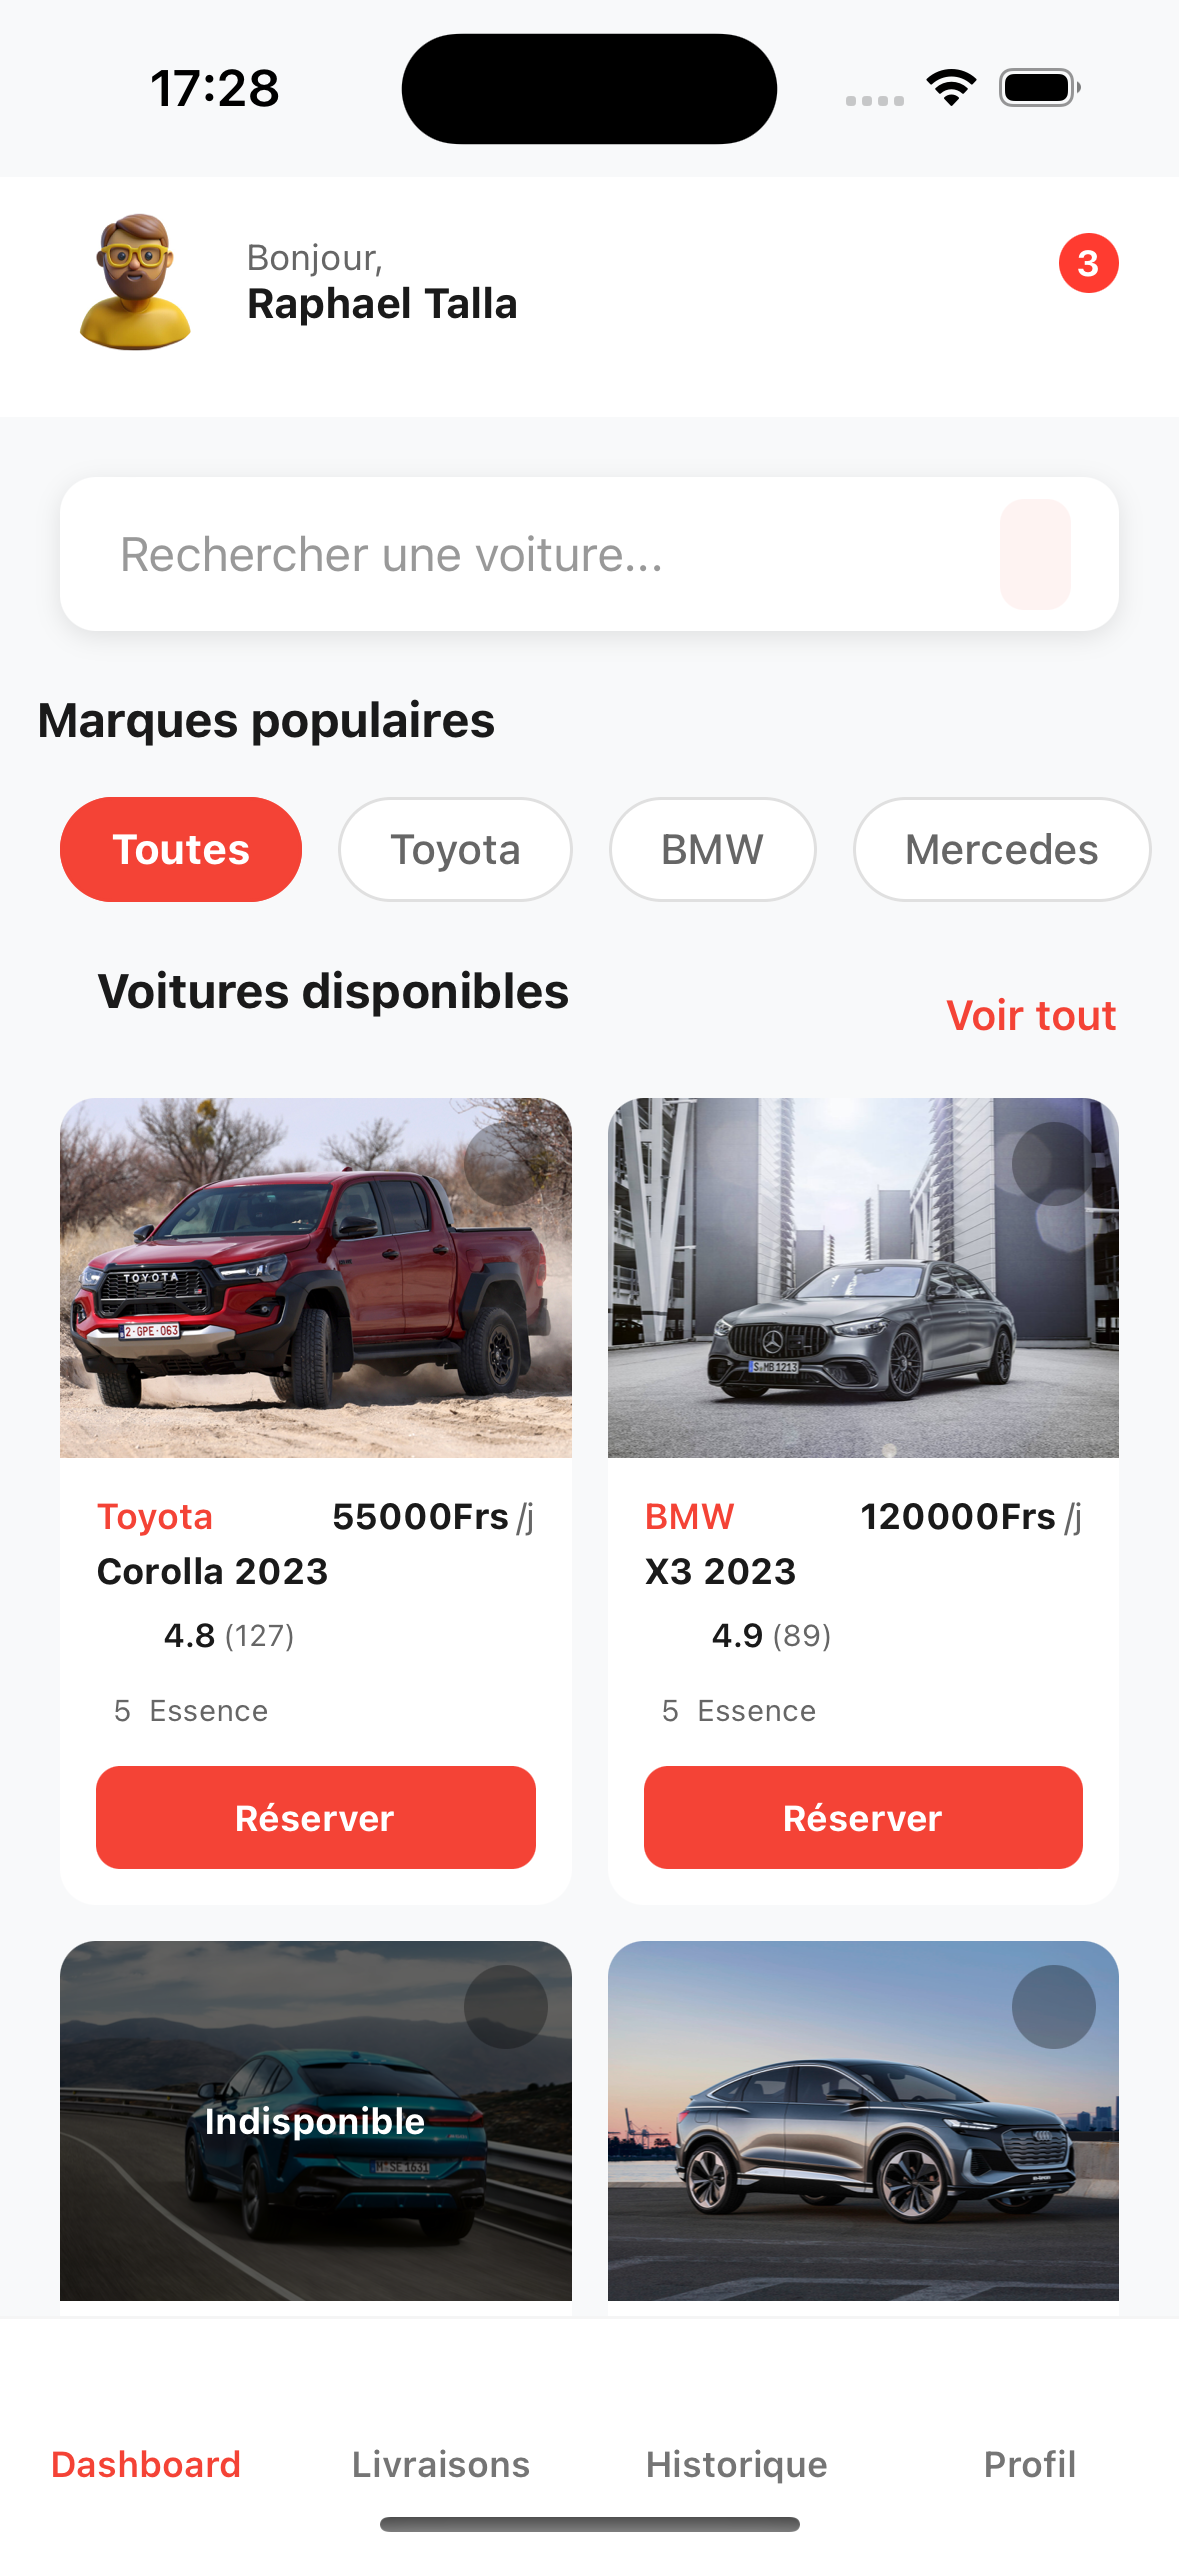
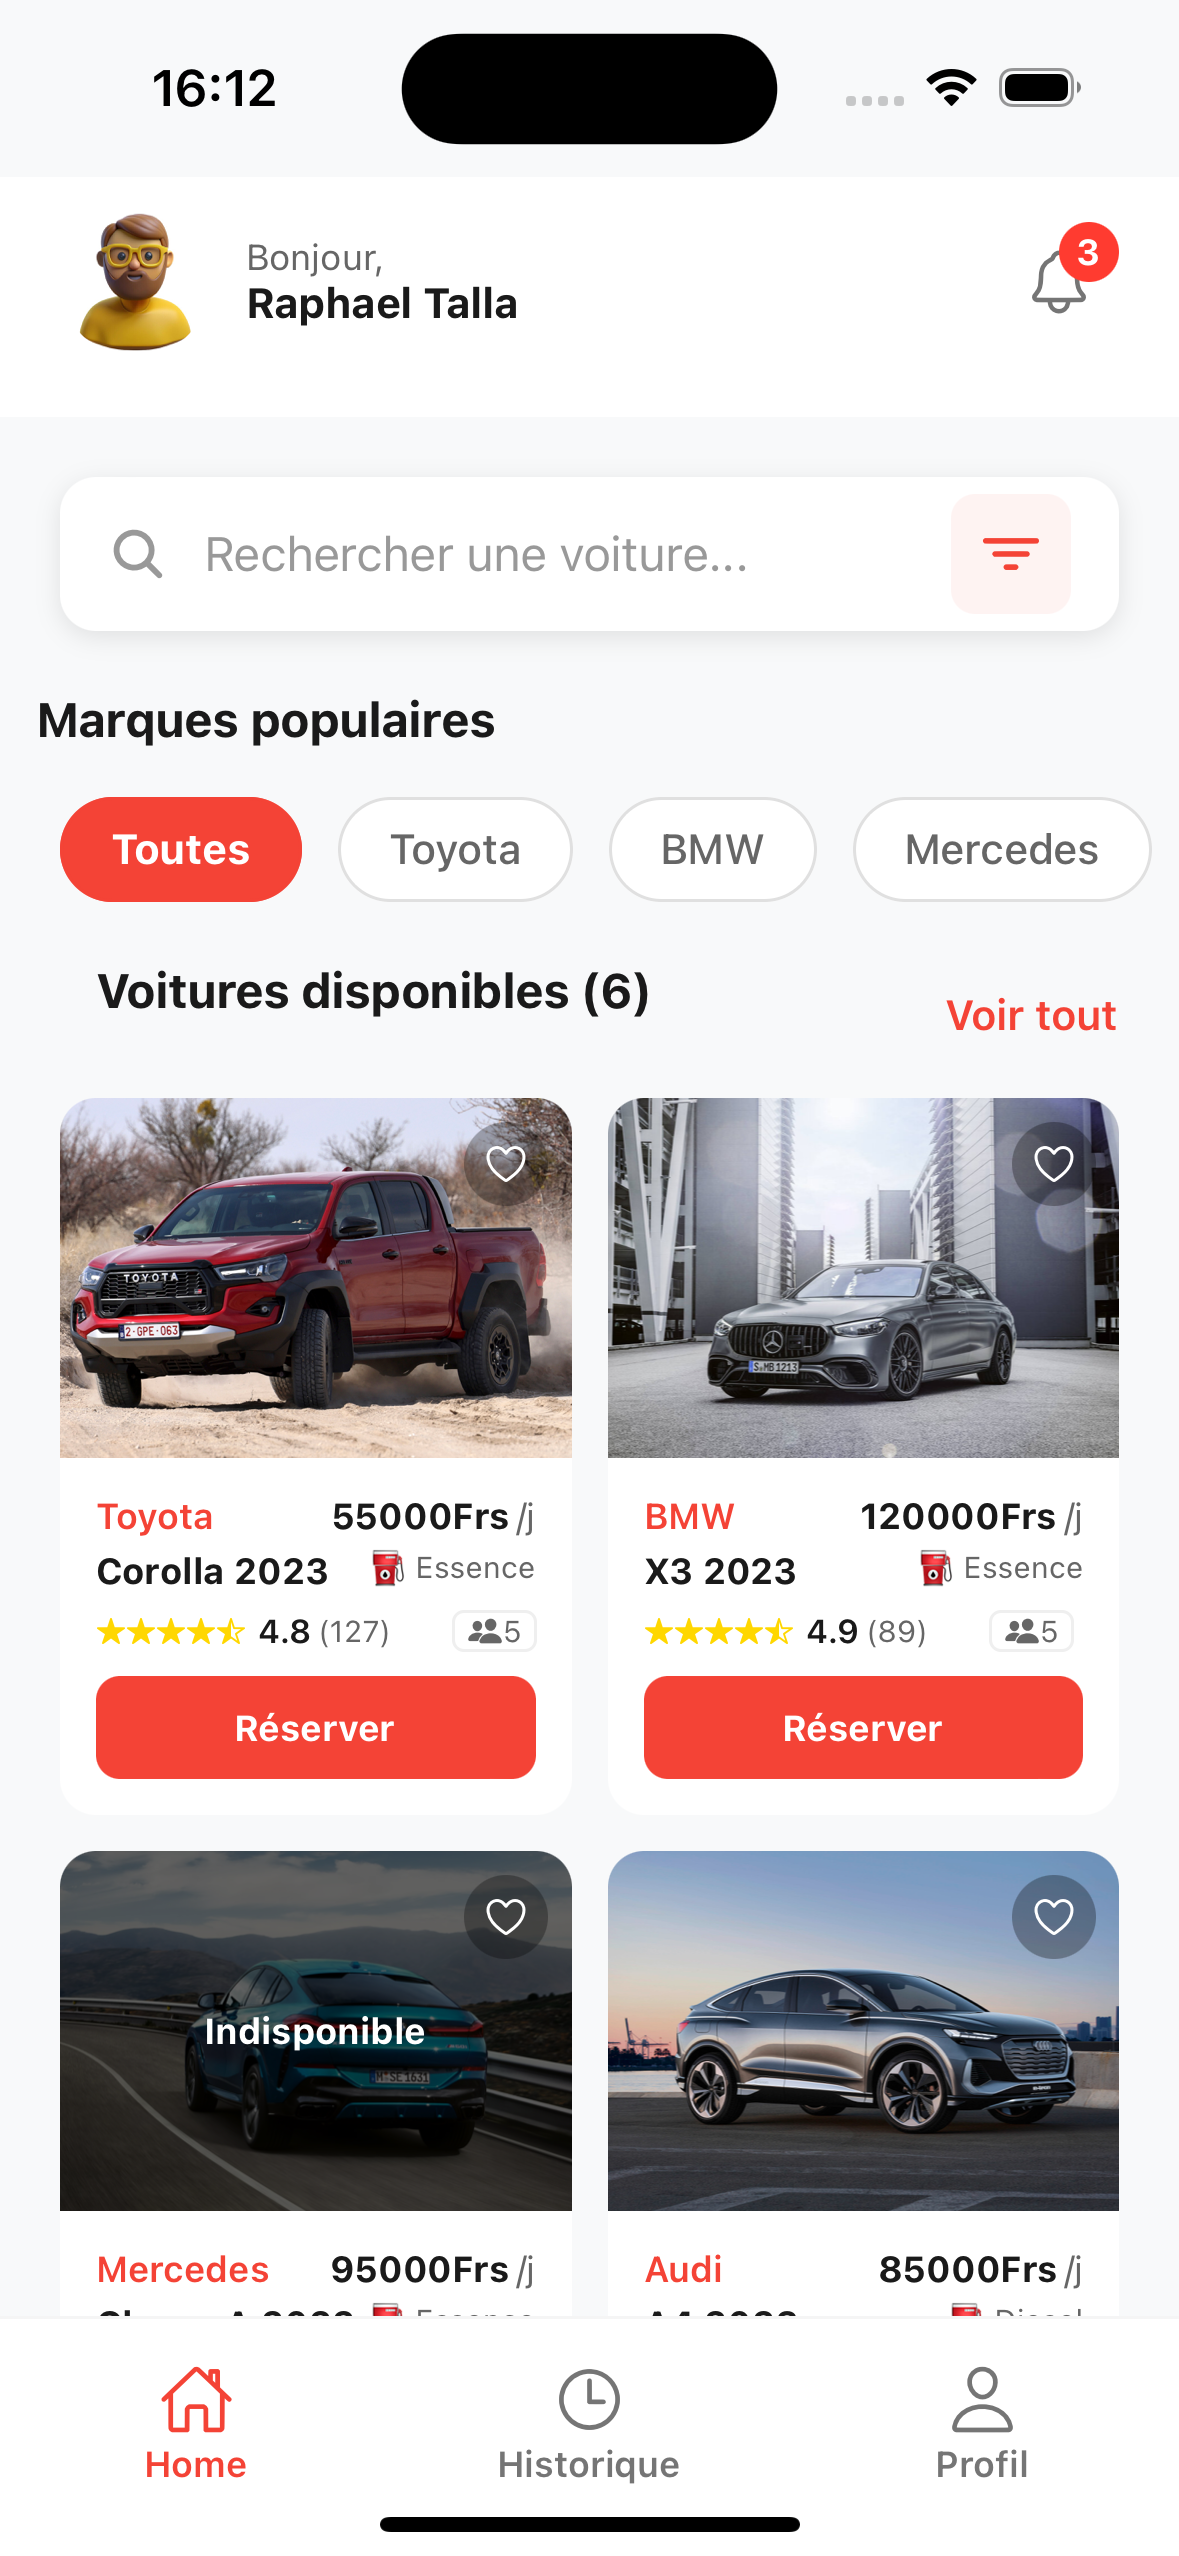
ajout des modification et image raphycar

diff --git a/app/routes/projects.raphycar/raphycar.jsx b/app/routes/projects.raphycar/raphycar.jsx
@@ -1,10 +1,10 @@
 import raphycarHome from '~/assets/raphy/home.png';
-import gamestackTexture2Large from '~/assets/gamestack-list-large.jpg';
-import gamestackTexture2Placeholder from '~/assets/gamestack-list-placeholder.jpg';
-import gamestackTexture2 from '~/assets/gamestack-list.jpg';
-import gamestackTextureLarge from '~/assets/gamestack-login-large.jpg';
-import gamestackTexturePlaceholder from '~/assets/gamestack-login-placeholder.jpg';
-import gamestackTexture from '~/assets/gamestack-login.jpg';
+import raphycarAppHome from '~/assets/raphy/app-home.png';
+import raphycarCarListing from '~/assets/raphy/car-listing.png';
+import raphycarCarDetails from '~/assets/raphy/car-details.png';
+import raphycarChatSupport from '~/assets/raphy/chat-support.png';
+import raphycarFilters from '~/assets/raphy/filters.png';
+import raphycarHome2 from '~/assets/raphy/home2.png';
 import { Footer } from '~/components/footer';
 import { Image } from '~/components/image';
 import {
@@ -61,10 +61,10 @@ export const Raphycar = () => {
           <ProjectSectionContent>
             <ProjectImage
               raised
-              srcSet={`${raphycarHome} 375w, ${raphycarHome} 750w`}
+              srcSet={`${raphycarAppHome} 375w, ${raphycarAppHome} 750w`}
               width={375}
               height={812}
-              placeholder={raphycarHome}
+              placeholder={raphycarAppHome}
               alt="RaphyCar mobile app showing the main vehicle rental interface."
               sizes={`(max-width: ${media.mobile}px) 100vw, (max-width: ${media.tablet}px) 800px, 1000px`}
             />
@@ -85,10 +85,10 @@ export const Raphycar = () => {
         <ProjectSection light>
           <ProjectSectionContent>
             <Image
-              srcSet={`${gamestackTexture2} 1024w, ${gamestackTexture2Large} 2048w`}
-              width={1024}
-              height={800}
-              placeholder={gamestackTexture2Placeholder}
+              srcSet={`${raphycarFilters} 375w, ${raphycarFilters} 750w`}
+              width={375}
+              height={812}
+              placeholder={raphycarFilters}
               alt="Advanced vehicle filtering system with location and specification options"
               sizes="100vw"
             />
@@ -108,10 +108,10 @@ export const Raphycar = () => {
           <ProjectSectionContent>
             <ProjectImage
               raised
-              srcSet={`${gamestackTexture} 1280w, ${gamestackTextureLarge} 2560w`}
-              width={1280}
-              height={800}
-              placeholder={gamestackTexturePlaceholder}
+              srcSet={`${raphycarChatSupport} 375w, ${raphycarChatSupport} 750w`}
+              width={375}
+              height={812}
+              placeholder={raphycarChatSupport}
               alt="AI-powered chatbot interface providing customer support"
               sizes="100vw"
             />
@@ -144,20 +144,20 @@ export const Raphycar = () => {
             <div className={styles.sidebarImages}>
               <Image
                 className={styles.sidebarImage}
-                srcSet={`${gamestackTexture2} 260w, ${gamestackTexture2Large} 520w`}
+                srcSet={`${raphycarCarListing} 260w, ${raphycarCarListing} 520w`}
                 width={260}
                 height={416}
-                placeholder={gamestackTexture2Placeholder}
-                alt="Admin dashboard for vehicle fleet management"
+                placeholder={raphycarCarListing}
+                alt="Car listing with detailed vehicle information"
                 sizes={`(max-width: ${media.mobile}px) 50vw, 25vw`}
               />
               <Image
                 className={styles.sidebarImage}
-                srcSet={`${gamestackTexture} 260w, ${gamestackTextureLarge} 520w`}
+                srcSet={`${raphycarCarDetails} 260w, ${raphycarCarDetails} 520w`}
                 width={260}
                 height={416}
-                placeholder={gamestackTexturePlaceholder}
-                alt="Customer management and booking system"
+                placeholder={raphycarCarDetails}
+                alt="Detailed car information and booking interface"
                 sizes={`(max-width: ${media.mobile}px) 50vw, 25vw`}
               />
             </div>
@@ -176,10 +176,10 @@ export const Raphycar = () => {
             </ProjectTextRow>
             <Image
               raised
-              srcSet={`${raphycarHome} 800w, ${raphycarHome} 1920w`}
+              srcSet={`${raphycarHome2} 800w, ${raphycarHome2} 1920w`}
               width={800}
               height={500}
-              placeholder={raphycarHome}
+              placeholder={raphycarHome2}
               alt="Localized interface showing CFA pricing and mobile payment options"
             />
           </ProjectSectionContent>

diff --git a/app/routes/home/home.jsx b/app/routes/home/home.jsx
@@ -8,7 +8,8 @@ import reminder1 from '~/assets/reminder1.png';
 import reminder2 from '~/assets/reminder2.png';
 import deliveryHome from '~/assets/Delivery/home.png';
 import deliveryWallet from '~/assets/Delivery/wallet.png';
-import raphycarTexture from '~/assets/raphy/home.png';
+import raphycarTexture from '~/assets/raphy/home2.png';
+import raphycarTexture2 from '~/assets/raphy/home.png';
 import dashboardTexture from '~/assets/dashb/homeresto.jpg';
 import dashboardUI from '~/assets/dashb/ui-design-dialin-contracts-manager.png';
 import sliceTextureLarge from '~/assets/slice-app-large.jpg';
@@ -195,6 +196,10 @@ export const Home = () => {
             {
               srcSet: `${raphycarTexture} 375w, ${raphycarTexture} 750w`,
               placeholder: gamestackTexturePlaceholder,
+            },
+            {
+              srcSet: `${raphycarTexture2} 375w, ${raphycarTexture2} 750w`,
+              placeholder: gamestackTexture2Placeholder,
             },
           ],
         }}
